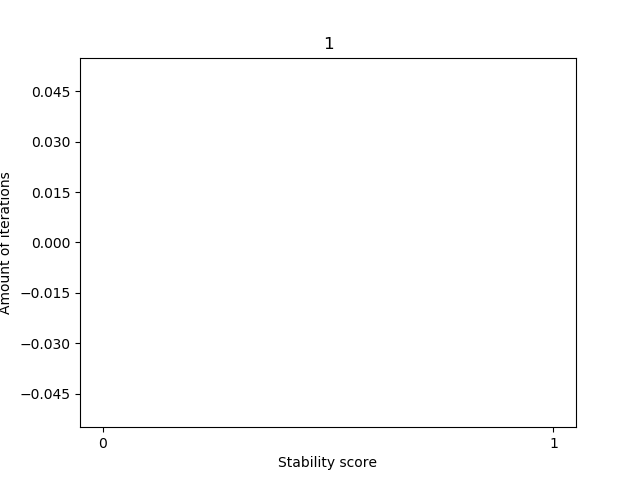
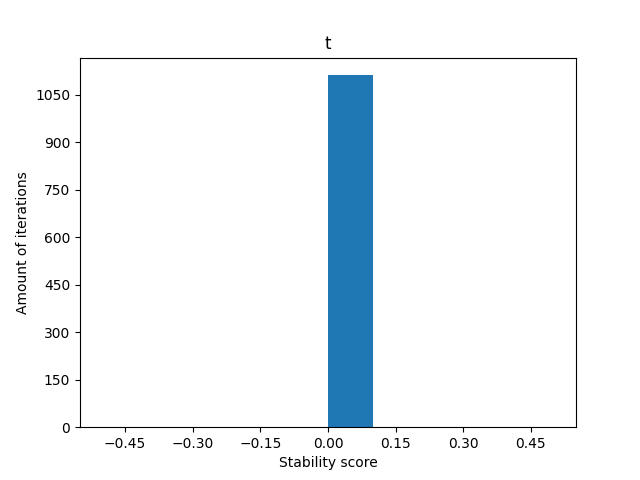
fixed some bugs from changing solutions

diff --git a/code/algorithms/greedy.py b/code/algorithms/greedy.py
@@ -138,11 +138,11 @@ class Greedy(Random):
             self.best.append([temp_score, folding])
 
 
-    def run_greedy(self, protein, x):
+    def run_greedy(self, protein, runs):
         '''
         Fold the protein according to the greedy algorithm x times.
         '''
-        for k in range(x):
+        for k in range(runs):
             
             # Keep track of progression while running
             if k % 1000 == 0:
@@ -152,10 +152,12 @@ class Greedy(Random):
             self.positionX = self.positionY = 0
             self.i = 0
 
-            # TODO - write a comment for this
+            # Loop through a protein and fill in each amino acid per iteration
             while self.i < len(protein.aminoacids):
                 protein.add_position(protein.aminoacids[self.i], self.positionX, self.positionY)
                 self.i, self.positionX, self.positionY = self.fold_random(protein, self.positionX, self.positionY, self.i)
+                
+                # Reset the protein if no folds are able for the next amino acid
                 if self.i == 0:
                     protein.positions.clear()
 
@@ -164,4 +166,79 @@ class Greedy(Random):
 
 
 class GreedyLookahead(Greedy):
-    pass
+    """
+    The greedy lookahead algorithm will configure an X amount of amino acids at once
+    to calculate a corresponding stability score.
+    The first amino acid will be placed according to the best stability score found,
+    from where the same pattern will be repeated.w
+    """
+    def __init__(self, protein, lookahead):
+        super().__init__()
+        lookahead = lookahead
+
+    def run_greedy(self, protein, runs, lookahead):
+        '''
+        Fold the protein according to the greedy lookahead algorithm.
+        '''
+        for k in range(runs):
+            
+            # Keep track of progression while running
+            if k % 1000 == 0:
+                print(f"Total number of iterations done: {k}")
+
+            # Finish a protein with greedy folding
+            self.positionX = self.positionY = 0
+            self.i = 0
+
+            # Loop through a protein and fill in each amino acid per iteration
+            while self.i < len(protein.aminoacids):
+                protein.add_position(protein.aminoacids[self.i], self.positionX, self.positionY)
+                self.i, self.positionX, self.positionY = self.fold_random(protein, self.positionX, self.positionY, self.i)
+                
+                # Reset the protein if no folds are able for the next amino acid
+                if self.i == 0:
+                    protein.positions.clear()
+
+            protein.set_stability()
+            self.add_solution(protein)
+
+
+    def get_best_fold(self, protein):
+        '''
+        Find the best folding for the next amino acid.
+        '''
+        self.best = []
+
+        # Acquire list of all foldings to try
+        fold_list = Protein.get_fold_list(protein)
+
+        if not self.prev_fold == 0:
+            fold_list.remove(-self.prev_fold)
+
+        # Remove folds from list if in forbidden lists
+        acid = protein.aminoacids[self.i]
+        for j in range(len(acid.forbidden_folds)):
+            if acid.forbidden_folds[j] in fold_list:
+                fold_list.remove(acid.forbidden_folds[j])
+
+        # Try all possible foldings and return a random one of the best options
+        for k in range(len(fold_list)):
+            folding = fold_list[k]
+            temp_fold = self.get_temp_coordinates(folding)
+            trial = self.try_fold(protein, temp_fold)
+
+            if trial == True:
+                self.add_best(protein, temp_fold)
+            else:
+                pass
+        
+        if self.best:
+            random_best = random.choice(self.best)
+        else:
+            return None
+
+        new_fold = self.get_temp_coordinates(random_best[1])
+        self.positionX = new_fold[0]
+        self.positionY = new_fold[1]
+
+        return random_best[1]

diff --git a/code/algorithms/random.py b/code/algorithms/random.py
@@ -100,9 +100,15 @@ class Random():
         if score < self.best[0]:
             self.best.clear()
             copy_dict = copy.deepcopy(protein.positions)
-            self.best.append([score, copy_dict])
+            self.best = [score, copy_dict]
+            del copy_dict
+        elif self.best == [0, {}]:
+            copy_dict = copy.deepcopy(protein.positions)
+            self.best = [score, copy_dict]
+            del copy_dict
+            
         
-        self.solutions.append([score])
+        self.solutions.append(score)
         protein.clear_protein()
 
 

diff --git a/code/visualisation/visualize.py b/code/visualisation/visualize.py
@@ -54,16 +54,16 @@ def visualize(lst):
     plt.savefig("grid.png", format="png")
 
 
-<<<<<<< HEAD
-def hist(algorithm):
-    # TODO - add docstring
-    '''
-    '''
-=======
 def hist(algorithm, algor):
->>>>>>> 8d6a1e17e772255abae35408e7b6fedbf2b51808
+    '''
+    Plot solutions of the used algorithm in a histogram.
+    '''
     plt.figure()
-    data = algorithm.solutions
+    data = []
+
+    for i in algorithm.solutions:
+        data.append(i)
+
 
     plt.hist(data)
 

diff --git a/main.py b/main.py
@@ -105,8 +105,8 @@ if __name__ == "__main__":
         print("Algoritm took %s seconds to run (without visualisation)" % (time.time() - start_time))
         best = art.get_best()
         
-    hist(art)
+    hist(art, algor)
     writecsv(protein, best)
-    visualize(best, algor)
+    visualize(best)
 
     print("Program completed!")
